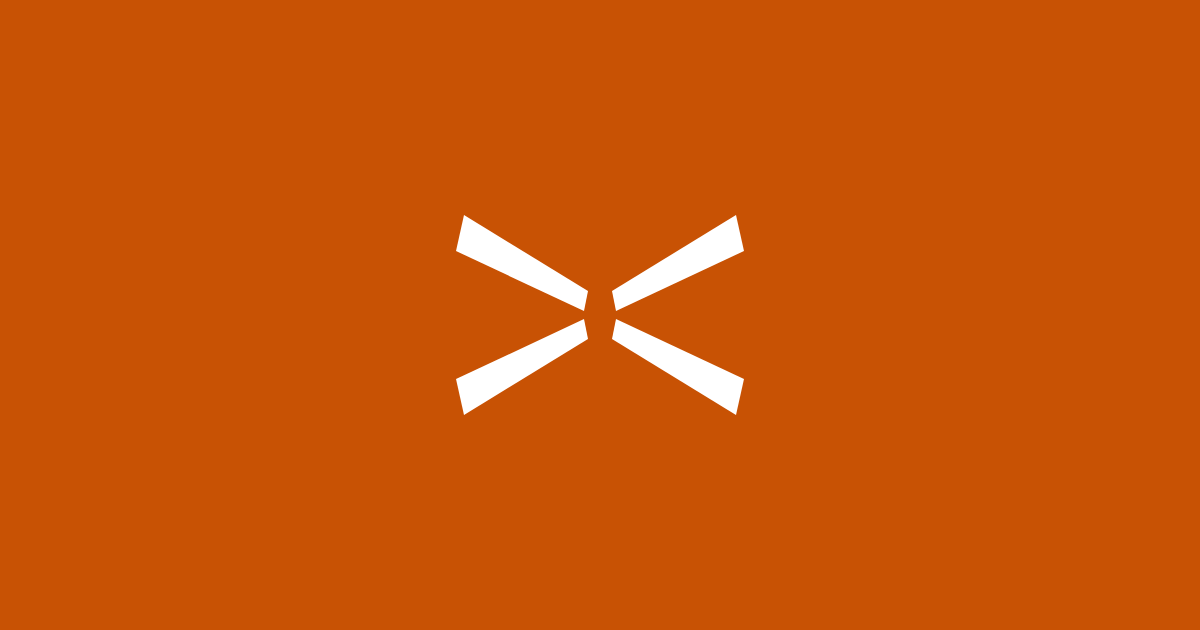
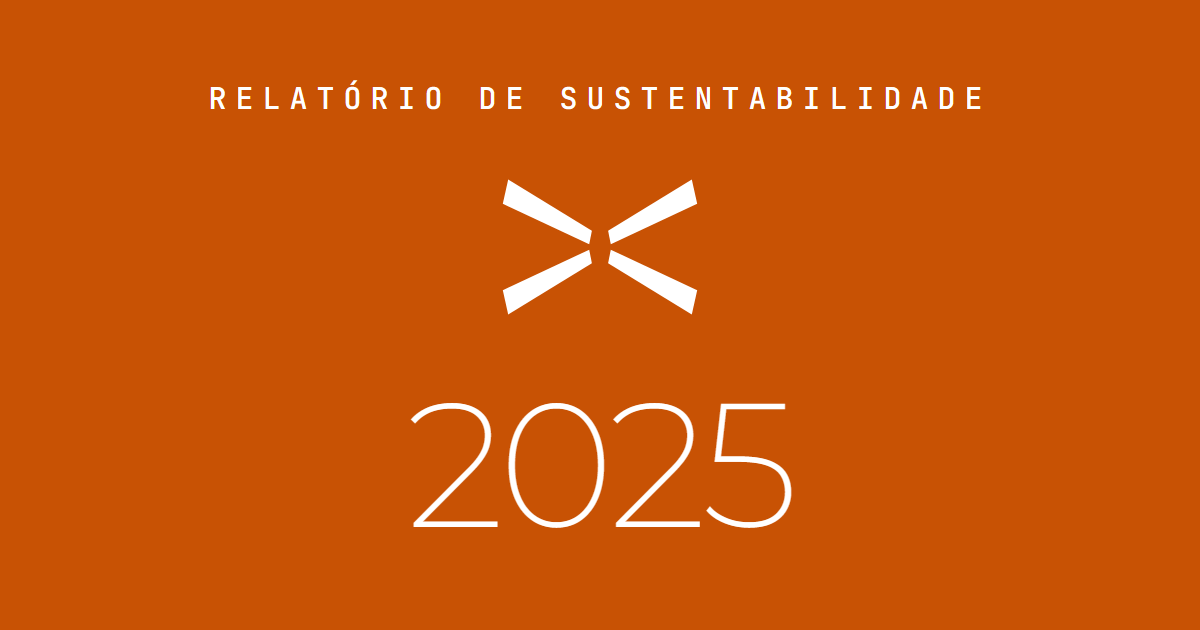
og image · texto Relatorio de Sustentabilidade + 2025 em branco
MFZ: acima do logo a linha Relatorio de Sustentabilidade, abaixo o ano 2025, tudo branco sobre laranja.
- eyebrow JetBrains Mono caps + ano Montserrat light, X branco centrado
- meta og:image / twitter:image -> ?v=3

diff --git a/assets/og/og-source.html b/assets/og/og-source.html
@@ -3,23 +3,38 @@
 <head>
 <meta charset="utf-8">
 <title>OG Source · NEXA RS 2025</title>
+<link rel="stylesheet" href="https://fonts.googleapis.com/css2?family=Montserrat:wght@200;500&family=JetBrains+Mono:wght@500&display=swap">
 <style>
-  /* OG image 1200x630 · fundo laranja NEXA + logo X branco (estilo favicon).
+  /* OG image 1200x630 · fundo laranja NEXA + logo X branco centrado,
+     "Relatório de Sustentabilidade" em cima e "2025" embaixo (tudo branco).
      Render: headless Chrome --window-size=1200,630 --screenshot. */
   html, body { margin: 0; padding: 0; }
   body {
-    width: 1200px;
-    height: 630px;
+    width: 1200px; height: 630px;
     background: #C85204;            /* NEXA orange · Pantone 2020 C */
-    display: flex;
-    align-items: center;
-    justify-content: center;
+    display: flex; flex-direction: column;
+    align-items: center; justify-content: center;
     overflow: hidden;
+    color: #fff;
+    font-family: 'Montserrat', sans-serif;
   }
-  .x-mark { width: 400px; height: 400px; display: block; }
+  .eyebrow {
+    font-family: 'JetBrains Mono', monospace;
+    font-size: 30px; font-weight: 500;
+    letter-spacing: 0.30em; text-transform: uppercase;
+    color: #fff;
+  }
+  .x-mark { width: 270px; height: 270px; display: block; margin: -6px 0; }
+  .year {
+    font-family: 'Montserrat', sans-serif;
+    font-size: 176px; font-weight: 200;
+    letter-spacing: -0.03em; line-height: 1;
+    color: #fff;
+  }
 </style>
 </head>
 <body>
+  <div class="eyebrow">Relatório de Sustentabilidade</div>
   <svg class="x-mark" viewBox="0 0 100 100" xmlns="http://www.w3.org/2000/svg" aria-hidden="true">
     <g fill="#FFFFFF">
       <polygon points="16,25 14,34 46,49 47,44"/>
@@ -28,5 +43,6 @@
       <polygon points="84,75 86,66 54,51 53,56"/>
     </g>
   </svg>
+  <div class="year">2025</div>
 </body>
 </html>

diff --git a/index.html b/index.html
@@ -12,7 +12,7 @@
   <meta property="og:title" content="NEXA · Relatório de Sustentabilidade 2025">
   <meta property="og:description" content="Relatório interativo · materialidade, metas ESG e plano climático até 2030.">
   <meta property="og:url" content="https://nexa-sgoic.github.io/report-2025/">
-  <meta property="og:image" content="https://nexa-sgoic.github.io/report-2025/assets/og/og-image.png?v=2">
+  <meta property="og:image" content="https://nexa-sgoic.github.io/report-2025/assets/og/og-image.png?v=3">
   <meta property="og:image:width" content="1200">
   <meta property="og:image:height" content="630">
   <meta property="og:image:alt" content="NEXA · Relatório de Sustentabilidade 2025 · X NEXA + sun motifs">
@@ -20,7 +20,7 @@
   <meta name="twitter:card" content="summary_large_image">
   <meta name="twitter:title" content="NEXA · Relatório de Sustentabilidade 2025">
   <meta name="twitter:description" content="Relatório interativo · materialidade, metas ESG e plano climático até 2030.">
-  <meta name="twitter:image" content="https://nexa-sgoic.github.io/report-2025/assets/og/og-image.png?v=2">
+  <meta name="twitter:image" content="https://nexa-sgoic.github.io/report-2025/assets/og/og-image.png?v=3">
 
   <link rel="preconnect" href="https://fonts.googleapis.com">
   <link rel="preconnect" href="https://fonts.gstatic.com" crossorigin>